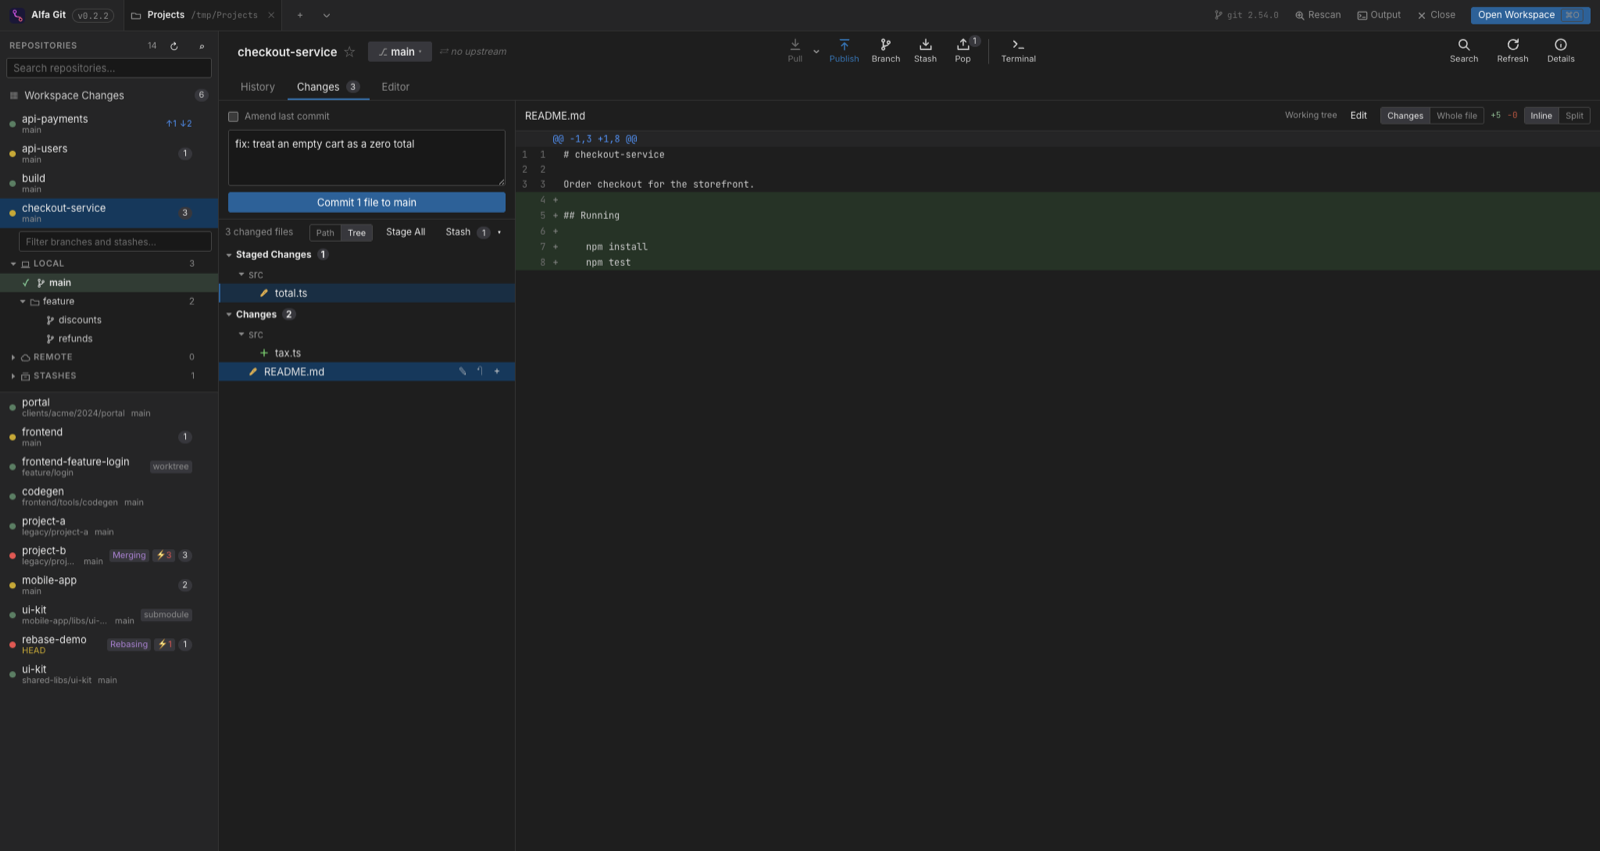
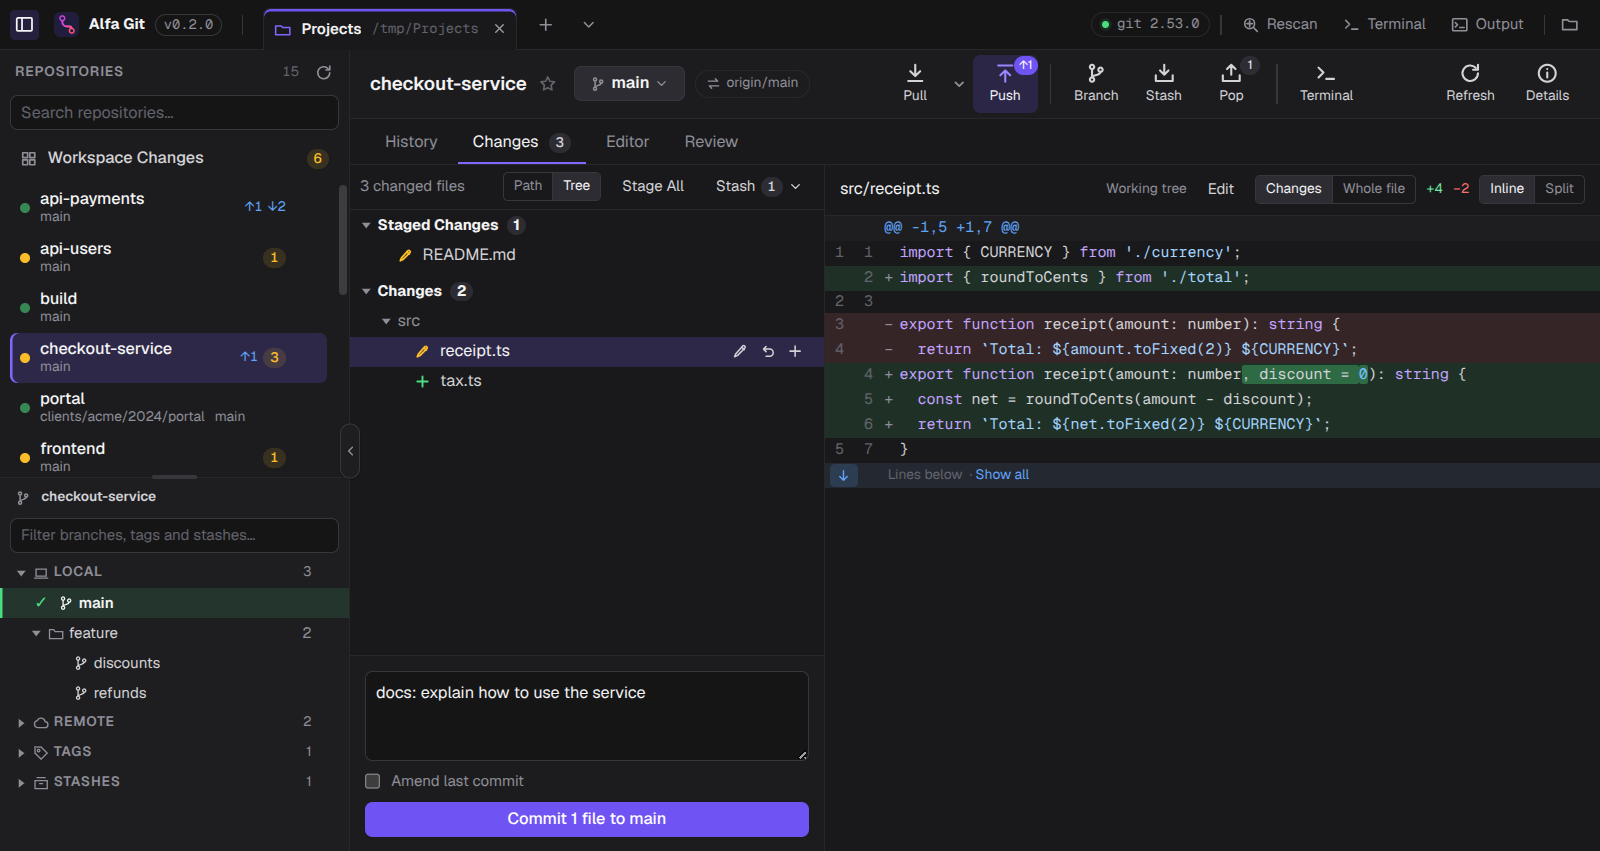
Landing al día: capturas del diseño actual, Review y Terminal

diff --git a/es/index.html b/es/index.html
@@ -4,7 +4,7 @@
   <meta charset="utf-8">
   <meta name="viewport" content="width=device-width, initial-scale=1">
   <title>Alfa Git — el cliente Git para la carpeta donde viven todos tus repos</title>
-  <meta name="description" content="Alfa Git escanea tu carpeta de proyectos, encuentra cada repositorio Git y muestra el estado de cada uno. Grafo de commits, staging, conflictos, rebase y editor integrado. Gratis durante la beta.">
+  <meta name="description" content="Alfa Git escanea tu carpeta de proyectos, encuentra cada repositorio Git y muestra el estado de cada uno. Grafo de commits, staging, revisión de ramas, conflictos, rebase, editor y terminal integrados. Gratis durante la beta.">
   <meta name="theme-color" content="#110f26">
   <meta property="og:title" content="Alfa Git — todos tus repositorios de un vistazo">
   <meta property="og:description" content="Un cliente Git de escritorio para la carpeta donde viven todos tus repositorios. Gratis durante la beta.">
@@ -67,7 +67,7 @@
         <figure class="window window--hero">
           <div class="window__bar" aria-hidden="true"><i></i><i></i><i></i><span>Projects — Alfa Git</span></div>
           <img src="../assets/workspace.png" width="1600" height="851"
-               alt="Alfa Git mostrando un workspace con catorce repositorios, cada uno con su estado">
+               alt="Alfa Git mostrando un workspace con quince repositorios, cada uno con su estado">
         </figure>
       </div>
     </section>
@@ -117,7 +117,7 @@
             y repos anidados incluidos — y le pone a cada uno un punto de estado: cambios, conflictos, un merge o rebase en curso.
           </p>
           <ul class="checks">
-            <li><strong>Workspace Changes</strong>: una tabla para filtrar y ordenar por nombre, ruta o rama</li>
+            <li><strong>Workspace Changes</strong>: una línea por repo, primero lo que necesita atención — conflictos, un merge o rebase detenido, commits por traer</li>
             <li><strong>Fetch All</strong> sobre todos los remotos, con concurrencia limitada</li>
             <li>Pestañas de workspace para tener varios proyectos a mano</li>
           </ul>
@@ -142,6 +142,7 @@
             <li>Detalle del commit con sus archivos y su diff lado a lado</li>
             <li>Rebase interactivo: arrastra para reordenar, squash, fixup, reword, drop</li>
             <li><strong>File History y Blame</strong>: cada commit que tocó un archivo, y quién cambió cada línea por última vez</li>
+            <li><kbd>Ctrl</kbd>/<kbd>⌘</kbd>+<kbd>F</kbd> busca commits por mensaje, autor, rama, tag o hash</li>
           </ul>
         </div>
         <figure class="window">
@@ -156,11 +157,13 @@
           <p class="eyebrow">Cambios</p>
           <h3>Stage, diff y commit</h3>
           <p>
-            Grupos merge, staged, unstaged y untracked — como árbol o como rutas — con diffs con resaltado de sintaxis.
-            Amend, stash de todo o de algunos archivos, y discard con una confirmación del propio sistema operativo.
+            Grupos merge, staged, unstaged y untracked — como árbol o como rutas — con diffs con resaltado de sintaxis
+            que marcan <strong>las palabras exactas que cambiaron</strong> dentro de cada línea. Amend, stash de todo o de
+            algunos archivos, y discard con una confirmación del propio sistema operativo.
           </p>
           <ul class="checks">
-            <li>Stage y unstage por archivo</li>
+            <li>Stage y unstage por archivo, o todo de una vez</li>
+            <li>Amplía el contexto alrededor de un cambio, o lee el archivo entero</li>
             <li>Discard y clean, confirmados de forma nativa</li>
             <li>Stashes parciales, amend, modos de pull</li>
           </ul>
@@ -173,6 +176,28 @@
       </article>
 
       <article class="feature feature--flip">
+        <div class="feature__text">
+          <p class="eyebrow">Revisión</p>
+          <h3>Revisa una rama como un pull request</h3>
+          <p>
+            Elige una base y una rama para comparar: sus commits, cada archivo que cambia y el diff, antes de integrarla.
+            Alfa Git simula el merge en memoria y <strong>te dice qué archivos entrarían en conflicto</strong> — sin tocar
+            tu working tree.
+          </p>
+          <ul class="checks">
+            <li>Marca archivos como <strong>Viewed</strong>; si la rama vuelve a cambiar uno, vuelve a aparecer sin ver</li>
+            <li>Muestra un solo commit o un tramo, no solo la rama entera</li>
+            <li>Merge, squash o rebase desde la cabecera, como el botón de un pull request</li>
+          </ul>
+        </div>
+        <figure class="window">
+          <div class="window__bar" aria-hidden="true"><i></i><i></i><i></i></div>
+          <img src="../assets/review.png" width="1600" height="851" loading="lazy"
+               alt="Revisión de feature/login contra main, con un archivo que entraría en conflicto">
+        </figure>
+      </article>
+
+      <article class="feature">
         <div class="feature__text">
           <p class="eyebrow">Conflictos</p>
           <h3>Decide mirando, no leyendo marcadores</h3>
@@ -193,7 +218,7 @@
         </figure>
       </article>
 
-      <article class="feature">
+      <article class="feature feature--flip">
         <div class="feature__text">
           <p class="eyebrow">Rebase</p>
           <h3>Un rebase que puedes seguir</h3>
@@ -213,7 +238,7 @@
         </figure>
       </article>
 
-      <article class="feature feature--flip">
+      <article class="feature">
         <div class="feature__text">
           <p class="eyebrow">Editor</p>
           <h3>Un editor para el arreglo rápido</h3>
@@ -230,6 +255,27 @@
           <div class="window__bar" aria-hidden="true"><i></i><i></i><i></i></div>
           <img src="../assets/editor.png" width="1600" height="851" loading="lazy"
                alt="El editor integrado con un archivo abierto">
+        </figure>
+      </article>
+
+      <article class="feature feature--flip">
+        <div class="feature__text">
+          <p class="eyebrow">Terminal</p>
+          <h3>Una terminal en cada repositorio</h3>
+          <p>
+            Tu propio shell, ya dentro del repositorio, justo bajo el grafo. Una pestaña por terminal, y siguen
+            corriendo mientras el panel está oculto — <kbd>Ctrl</kbd>/<kbd>⌘</kbd>+<kbd>J</kbd> las trae de vuelta.
+          </p>
+          <ul class="checks">
+            <li>Sobrevive a recargar la ventana; al cerrar la app se cierra cada shell</li>
+            <li>Tu prompt tal cual, con los iconos de Nerd Font incluidos</li>
+            <li>O abre tu terminal de siempre en el repositorio</li>
+          </ul>
+        </div>
+        <figure class="window">
+          <div class="window__bar" aria-hidden="true"><i></i><i></i><i></i></div>
+          <img src="../assets/terminal.png" width="1600" height="851" loading="lazy"
+               alt="La terminal integrada abierta bajo el grafo de commits de un repositorio">
         </figure>
       </article>
     </section>
@@ -268,6 +314,21 @@
           <span class="card__icon" aria-hidden="true">›_</span>
           <h4>Log de comandos</h4>
           <p>Cada comando Git que corre la app, con su exit code y su salida real, en el panel Output.</p>
+        </div>
+        <div class="card">
+          <span class="card__icon" aria-hidden="true">⏱</span>
+          <h4>Hooks a la vista</h4>
+          <p>Un pre-commit o pre-push lento muestra qué hook corre y su última línea de salida — y Cancel lo detiene.</p>
+        </div>
+        <div class="card">
+          <span class="card__icon" aria-hidden="true">✓</span>
+          <h4>Revisa tu Git</h4>
+          <p>¿Sin Git, o con uno muy antiguo? Te dice qué falta y cómo instalarlo en tu sistema.</p>
+        </div>
+        <div class="card">
+          <span class="card__icon" aria-hidden="true">⌨</span>
+          <h4>Primero el teclado</h4>
+          <p>Atajos para la sidebar, la terminal, la búsqueda y la revisión, listados en los menús y tooltips.</p>
         </div>
       </div>
     </section>
@@ -322,9 +383,10 @@
           <li>Workspaces y repositorios ilimitados</li>
           <li>Grafo de commits, stashes y tags</li>
           <li>Staging, diffs, amend y stashes parciales</li>
+          <li>Revisión de ramas con conflictos previstos antes de integrar</li>
           <li>Resolución de conflictos y rebase interactivo</li>
           <li>File History, Blame y restaurar un archivo desde cualquier commit</li>
-          <li>Editor integrado y búsqueda en el repositorio</li>
+          <li>Editor y terminal integrados, y búsqueda en el repositorio</li>
           <li>Fetch All y auto-fetch</li>
           <li>Todas las actualizaciones durante la beta</li>
         </ul>
@@ -356,7 +418,8 @@
         <details>
           <summary>¿Necesito tener Git instalado?</summary>
           <p>Sí — Git 2.30 o superior. El <code>.deb</code> depende de él, así que apt lo instala si no lo tienes.
-            Alfa Git usa tu propio Git, con tu configuración, credenciales y hooks, en lugar de traer uno propio.</p>
+            Alfa Git usa tu propio Git, con tu configuración, credenciales y hooks, en lugar de traer uno propio. Prever
+            conflictos en la revisión necesita Git 2.38 o superior; el resto funciona desde 2.30.</p>
         </details>
         <details>
           <summary>¿Mi código sale de mi máquina?</summary>

diff --git a/index.html b/index.html
@@ -4,7 +4,7 @@
   <meta charset="utf-8">
   <meta name="viewport" content="width=device-width, initial-scale=1">
   <title>Alfa Git — the Git client for the folder where all your repos live</title>
-  <meta name="description" content="Alfa Git scans your projects folder, finds every Git repository and shows each one with its own status. Commit graph, staging, conflicts, rebase and a built-in editor. Free during the beta.">
+  <meta name="description" content="Alfa Git scans your projects folder, finds every Git repository and shows each one with its own status. Commit graph, staging, branch review, conflicts, rebase, a built-in editor and terminal. Free during the beta.">
   <meta name="theme-color" content="#110f26">
   <meta property="og:title" content="Alfa Git — every repository at a glance">
   <meta property="og:description" content="A desktop Git client for the folder where all your repositories live. Free during the beta.">
@@ -66,7 +66,7 @@
         <figure class="window window--hero">
           <div class="window__bar" aria-hidden="true"><i></i><i></i><i></i><span>Projects — Alfa Git</span></div>
           <img src="assets/workspace.png" width="1600" height="851"
-               alt="Alfa Git showing a workspace with fourteen repositories, each with its own status">
+               alt="Alfa Git showing a workspace with fifteen repositories, each with its own status">
         </figure>
       </div>
     </section>
@@ -116,7 +116,7 @@
             repos included — and gives each one a status dot: changes, conflicts, a merge or rebase in progress.
           </p>
           <ul class="checks">
-            <li><strong>Workspace Changes</strong>: one table to filter and sort by name, path or branch</li>
+            <li><strong>Workspace Changes</strong>: one line per repo, what needs attention first — conflicts, a stopped merge or rebase, commits to pull</li>
             <li><strong>Fetch All</strong> across every remote, with bounded concurrency</li>
             <li>Workspace tabs to keep several projects at hand</li>
           </ul>
@@ -141,6 +141,7 @@
             <li>Commit details with its files and diff side by side</li>
             <li>Interactive rebase: drag to reorder, squash, fixup, reword, drop</li>
             <li><strong>File History and Blame</strong>: every commit that touched a file, and who last changed each line</li>
+            <li><kbd>Ctrl</kbd>/<kbd>⌘</kbd>+<kbd>F</kbd> finds commits by message, author, branch, tag or hash</li>
           </ul>
         </div>
         <figure class="window">
@@ -155,11 +156,13 @@
           <p class="eyebrow">Changes</p>
           <h3>Stage, diff and commit</h3>
           <p>
-            Merge, staged, unstaged and untracked groups — as a tree or as paths — with syntax-highlighted diffs.
-            Amend, stash everything or just a few files, and discard with a confirmation from the OS itself.
+            Merge, staged, unstaged and untracked groups — as a tree or as paths — with syntax-highlighted diffs
+            that mark <strong>the exact words that changed</strong> inside each line. Amend, stash everything or just a
+            few files, and discard with a confirmation from the OS itself.
           </p>
           <ul class="checks">
-            <li>Stage and unstage by file</li>
+            <li>Stage and unstage by file, or everything at once</li>
+            <li>Expand the context around a change, or read the whole file</li>
             <li>Discard and clean, confirmed natively</li>
             <li>Partial stashes, amend, pull modes</li>
           </ul>
@@ -172,6 +175,28 @@
       </article>
 
       <article class="feature feature--flip">
+        <div class="feature__text">
+          <p class="eyebrow">Review</p>
+          <h3>Review a branch like a pull request</h3>
+          <p>
+            Pick a base and a branch to compare: its commits, every file it changes and the diff, before you merge.
+            Alfa Git simulates the merge in memory and <strong>tells you which files would conflict</strong> — without
+            touching your working tree.
+          </p>
+          <ul class="checks">
+            <li>Mark files as <strong>Viewed</strong>; one the branch changes again comes back unread</li>
+            <li>Show a single commit or a range, not only the whole branch</li>
+            <li>Merge, squash or rebase from the header, like the button on a pull request</li>
+          </ul>
+        </div>
+        <figure class="window">
+          <div class="window__bar" aria-hidden="true"><i></i><i></i><i></i></div>
+          <img src="assets/review.png" width="1600" height="851" loading="lazy"
+               alt="Review of feature/login against main, with one file that would conflict">
+        </figure>
+      </article>
+
+      <article class="feature">
         <div class="feature__text">
           <p class="eyebrow">Conflicts</p>
           <h3>Decide by looking, not by reading markers</h3>
@@ -192,7 +217,7 @@
         </figure>
       </article>
 
-      <article class="feature">
+      <article class="feature feature--flip">
         <div class="feature__text">
           <p class="eyebrow">Rebase</p>
           <h3>A rebase you can follow</h3>
@@ -212,7 +237,7 @@
         </figure>
       </article>
 
-      <article class="feature feature--flip">
+      <article class="feature">
         <div class="feature__text">
           <p class="eyebrow">Editor</p>
           <h3>An editor for the small fix</h3>
@@ -229,6 +254,27 @@
           <div class="window__bar" aria-hidden="true"><i></i><i></i><i></i></div>
           <img src="assets/editor.png" width="1600" height="851" loading="lazy"
                alt="The built-in editor with a file open">
+        </figure>
+      </article>
+
+      <article class="feature feature--flip">
+        <div class="feature__text">
+          <p class="eyebrow">Terminal</p>
+          <h3>A terminal in every repository</h3>
+          <p>
+            Your own shell, already in the repository, right under the graph. One tab per terminal, and they keep
+            running while the panel is hidden — <kbd>Ctrl</kbd>/<kbd>⌘</kbd>+<kbd>J</kbd> brings them back.
+          </p>
+          <ul class="checks">
+            <li>Survives reloading the window; closing the app ends every shell</li>
+            <li>Your prompt as it is, Nerd Font icons included</li>
+            <li>Or open your usual terminal app in the repository</li>
+          </ul>
+        </div>
+        <figure class="window">
+          <div class="window__bar" aria-hidden="true"><i></i><i></i><i></i></div>
+          <img src="assets/terminal.png" width="1600" height="851" loading="lazy"
+               alt="The built-in terminal open under the commit graph of a repository">
         </figure>
       </article>
     </section>
@@ -267,6 +313,21 @@
           <span class="card__icon" aria-hidden="true">›_</span>
           <h4>Command log</h4>
           <p>Every Git command the app runs, with its exit code and real output, in the Output panel.</p>
+        </div>
+        <div class="card">
+          <span class="card__icon" aria-hidden="true">⏱</span>
+          <h4>Hooks you can follow</h4>
+          <p>A slow pre-commit or pre-push shows which hook runs and its last line of output — and Cancel stops it.</p>
+        </div>
+        <div class="card">
+          <span class="card__icon" aria-hidden="true">✓</span>
+          <h4>Checks your Git</h4>
+          <p>No Git, or one too old? It says what's missing and how to install it on your system.</p>
+        </div>
+        <div class="card">
+          <span class="card__icon" aria-hidden="true">⌨</span>
+          <h4>Keyboard first</h4>
+          <p>Shortcuts for the sidebar, the terminal, search and review — listed in the menus and tooltips.</p>
         </div>
       </div>
     </section>
@@ -321,9 +382,10 @@
           <li>Unlimited workspaces and repositories</li>
           <li>Commit graph, stashes and tags</li>
           <li>Staging, diffs, amend and partial stashes</li>
+          <li>Branch review with conflicts predicted before merging</li>
           <li>Conflict resolution and interactive rebase</li>
           <li>File History, Blame and restoring a file from any commit</li>
-          <li>Built-in editor and repository search</li>
+          <li>Built-in editor, terminal and repository search</li>
           <li>Fetch All and auto-fetch</li>
           <li>All updates during the beta</li>
         </ul>
@@ -355,7 +417,8 @@
         <details>
           <summary>Do I need Git installed?</summary>
           <p>Yes — Git 2.30 or newer. The <code>.deb</code> depends on it, so apt installs it if it's missing. Alfa
-            Git uses your own Git, with your config, credentials and hooks, instead of shipping its own.</p>
+            Git uses your own Git, with your config, credentials and hooks, instead of shipping its own. Predicting
+            conflicts in Review needs Git 2.38 or newer; the rest works from 2.30.</p>
         </details>
         <details>
           <summary>Does my code leave my machine?</summary>

diff --git a/styles.css b/styles.css
@@ -41,6 +41,16 @@ code {
   background: rgba(255, 255, 255, 0.06);
   color: var(--text-strong);
 }
+kbd {
+  font-family: var(--mono);
+  font-size: 0.8em;
+  padding: 0.05em 0.4em;
+  border: 1px solid var(--border);
+  border-bottom-width: 2px;
+  border-radius: 5px;
+  background: rgba(255, 255, 255, 0.04);
+  color: var(--text-strong);
+}
 h1, h2, h3, h4 { color: var(--text-strong); margin: 0; letter-spacing: -0.025em; line-height: 1.1; }
 h1 { font-size: clamp(2.6rem, 7vw, 5rem); font-weight: 800; }
 h2 { font-size: clamp(1.9rem, 4.2vw, 3rem); font-weight: 750; }
